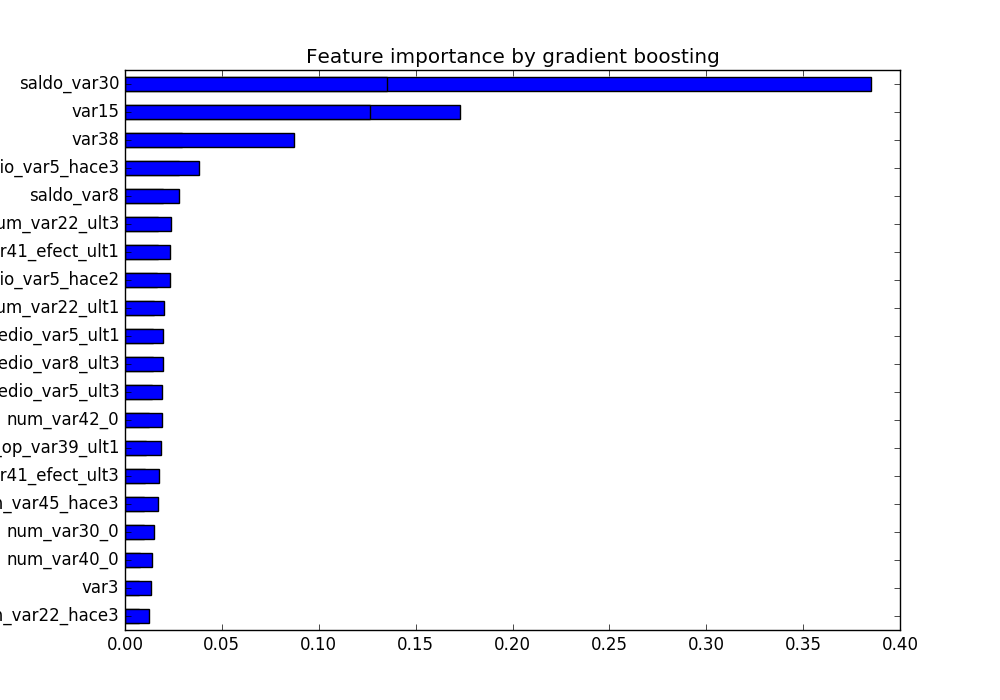
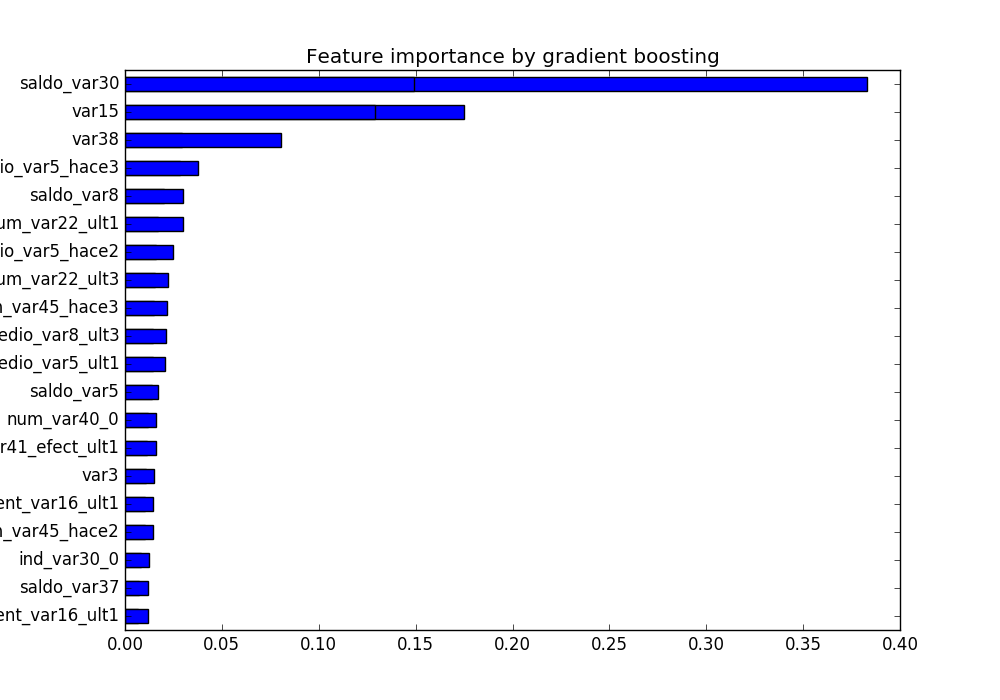
add some features exploration

diff --git a/features_exploration.py b/features_exploration.py
@@ -1,38 +1,101 @@
 import pandas as pd
 from sklearn.ensemble import RandomForestClassifier, GradientBoostingClassifier, ExtraTreesClassifier
 import matplotlib.pyplot as plt
+import seaborn as sns
+import numpy as np
 
 def get_most_important_features(train):
   train = train.drop('ID', 1)
   train_y = train['TARGET']
   train_X = train.drop('TARGET', 1)
 
-  # random_forest = RandomForestClassifier(n_estimators=100)
-  # random_forest.fit(train_X, train_y)
-  #
-  # feater_importance = pd.Series(random_forest.feature_importances_, index=train_X.columns)
-  # feater_importance.sort_values(inplace=True)
-  # feater_importance.tail(20).plot(kind='barh', figsize=(10,7), title='Feature importance by random forest')
-  #
-  # plt.savefig("feature_importance.png")
-  #
-  # grad_boosting = GradientBoostingClassifier()
-  # grad_boosting.fit(train_X, train_y)
-  #
-  # feater_importance = pd.Series(grad_boosting.feature_importances_, index=train_X.columns)
-  # feater_importance.sort_values(inplace=True)
-  # feater_importance.tail(20).plot(kind='barh', figsize=(10,7), title='Feature importance by gradient boosting')
-  #
-  # plt.savefig("feature_importance2.png")
+  random_forest = RandomForestClassifier(n_estimators=100)
+  random_forest.fit(train_X, train_y)
+
+  feater_importance = pd.Series(random_forest.feature_importances_, index=train_X.columns)
+  feater_importance.sort_values(inplace=True)
+  feater_importance.tail(20).plot(kind='barh', figsize=(15  ,7), title='Feature importance by random forest')
+
+  plt.savefig("feature_importance.png")
+
+  grad_boosting = GradientBoostingClassifier()
+  grad_boosting.fit(train_X, train_y)
+
+  feater_importance = pd.Series(grad_boosting.feature_importances_, index=train_X.columns)
+  feater_importance.sort_values(inplace=True)
+  feater_importance.tail(20).plot(kind='barh', figsize=(10,7), title='Feature importance by gradient boosting')
+
+  plt.savefig("feature_importance2.png")
 
   extra_trees = ExtraTreesClassifier()
   extra_trees.fit(train_X, train_y)
 
   feater_importance = pd.Series(extra_trees.feature_importances_, index=train_X.columns)
   feater_importance.sort_values(inplace=True)
-  feater_importance.tail(20).plot(kind='barh', figsize=(10,7), title='Feature importance by extra trees classifier')
+  feater_importance.tail(20).plot(kind='barh', figsize=(20,7), title='Feature importance by extra trees classifier')
 
   plt.savefig("feature_importance3.png")
 
+def num_var4(train):
+  print(train.num_var4.describe())
+
+  train.num_var4.hist(bins=100)
+  plt.ylabel('Number of customers')
+  plt.savefig('num_var4.png')
+
+  sns.FacetGrid(train, hue="TARGET", size=6).map(plt.hist, "num_var4").add_legend()
+  plt.savefig('num_var4_2.png')
+
+def var38(train):
+#   print(train.var38.describe())
+#
+#   print(train.loc[train['TARGET']==1, 'var38'].describe())
+#
+#   train.var38.hist(bins=1000)
+#   plt.title('var38 distributed')
+#   plt.savefig('var38.png')
+#
+#   train.var38.map(np.log).hist(bins=1000)
+#   plt.title('log var38')
+#   plt.savefig('var38_2.png')
+#
+#   print(train.var38.map(np.log).mode())
+#
+#   print(train.var38.value_counts())
+#   print(train.var38[train['var38'] != 117310.979016494].mean())
+#
+#   print(train.loc[~np.isclose(train.var38, 117310.979016), 'var38'].value_counts())
+#   train.loc[~np.isclose(train.var38, 117310.979016), 'var38'].map(np.log).hist(bins=100)
+#   plt.title('distribution without most common value')
+#   plt.savefig('var38_3.png')
+
+  train['var38_mc'] = np.isclose(train.var38, 117310.979016)
+  train['var38_log'] = train.loc[~train['var38_mc'], 'var38'].map(np.log)
+  train.loc[train['var38_mc'], 'var38_log'] = 0
+
+def var15(train):
+  print(train.var15.describe())
+
+  train['var15'].hist(bins=100)
+  plt.title('var15 distributed')
+  plt.savefig('var15.png')
+
+  sns.FacetGrid(train, hue="TARGET", size=6).map(sns.kdeplot, "var15").add_legend()
+  plt.savefig('var15_2.png')
+
+def saldo_var30(train):
+  print(train.saldo_var30.describe())
+
+  train.saldo_var30.hist(bins=100)
+  plt.savefig('saldo_var30.png')
+
+  train['saldo_var30_log'] = train.saldo_var30.map(np.log)
+  sns.FacetGrid(train, hue="TARGET", size=6).map(sns.kdeplot, "saldo_var30_log").add_legend()
+  plt.savefig('saldo_var30_2.png')
+
 train = pd.read_csv("train_after_processing.csv")
-get_most_important_features(train)
+# get_most_important_features(train)
+# num_var4(train)
+var38(train)
+# var15(train)
+saldo_var30(train)
